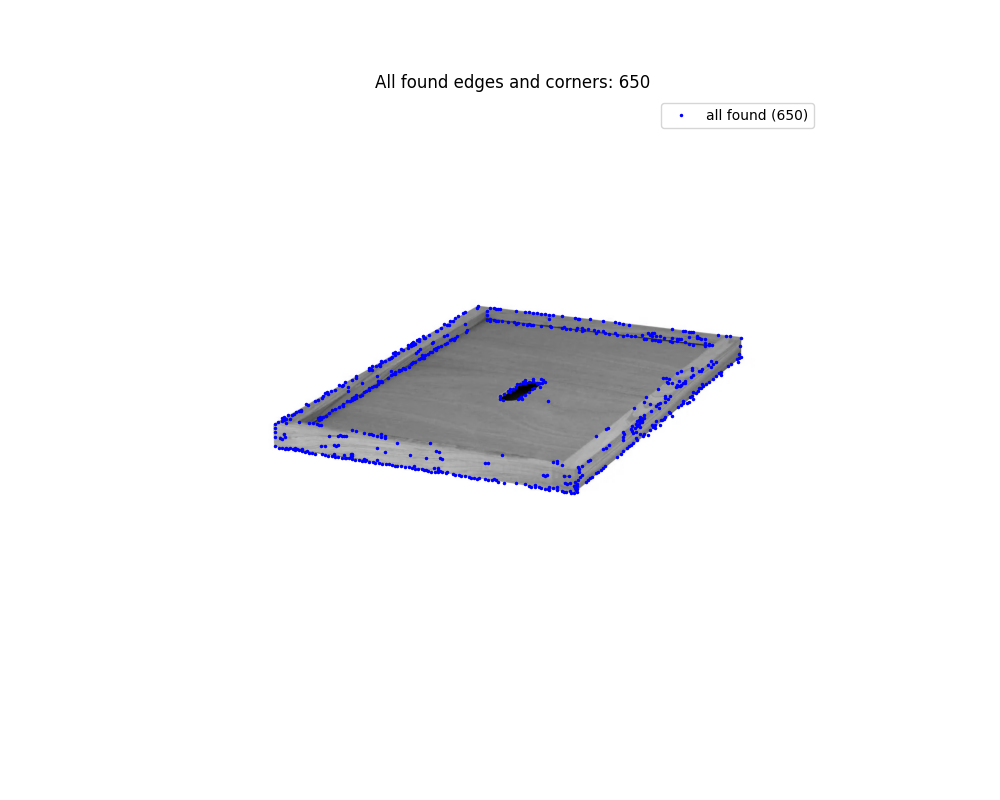
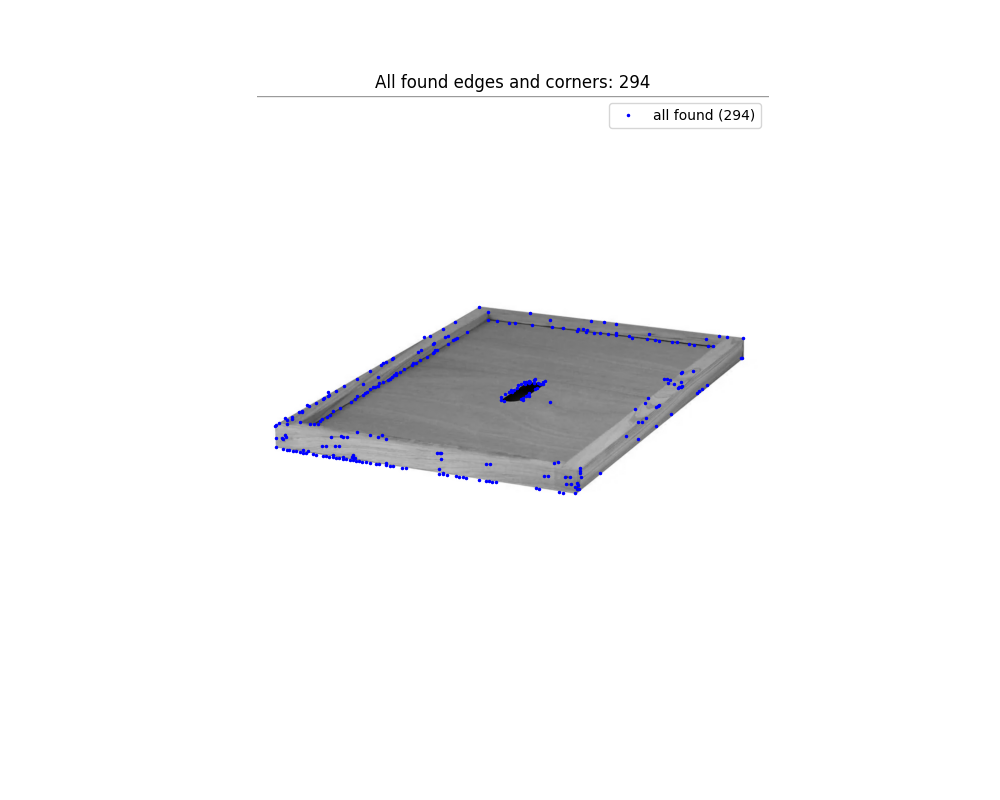
adjsuted

diff --git a/beevision/src/beevision/geometry/helpers.py b/beevision/src/beevision/geometry/helpers.py
@@ -71,35 +71,41 @@ def rectangle_score(corners):
     return angle_error
 
 
-def fit_line_regression(band_pts, horizontal=True):
+def fit_line_regression(quad_pts, horizontal=True):
     """
     fit y = mx + b (horizontal=True) or x = my + b (horizontal=False)
     returns (a, b, c) for line ax + by + c = 0
     """
-    if len(band_pts) < 2:
+    if len(quad_pts) < 2:
         return None
     if horizontal:
-        # fit y = mx + b → predict y from x
-        X = band_pts[:, 0].reshape(-1, 1)
-        Y = band_pts[:, 1]
+       
+        X = quad_pts[:, 0].reshape(-1, 1)
+
+        Y = quad_pts[:, 1]
     else:
-        # fit x = my + b → predict x from y
-        X = band_pts[:, 1].reshape(-1, 1)
-        Y = band_pts[:, 0]
+
+        X = quad_pts[:, 1].reshape(-1, 1)
+        
+        Y = quad_pts[:, 0]
 
     reg = LinearRegression().fit(X, Y)
     m = reg.coef_[0]
     b = reg.intercept_
 
     if horizontal:
-        # y = mx + b → mx - y + b = 0
-        a_coef, b_coef, c_coef = m, -1, b
+        a_coefficient = m
+        b_coefficent = -1
+        c_coefficient = b
     else:
-        # x = my + b → -x + my + b = 0
-        a_coef, b_coef, c_coef = -1, m, b
 
-    norm = np.sqrt(a_coef**2 + b_coef**2)
-    return a_coef / norm, b_coef / norm, c_coef / norm
+        a_coefficient = -1
+        b_coefficent = m
+        c_coefficient =  b
+
+    norm = np.sqrt(a_coefficient ** 2 + b_coefficent **2)
+    
+    return a_coefficient / norm, b_coefficent / norm, c_coefficient / norm
 
 
 def point_line_distance(pts, line, ):
